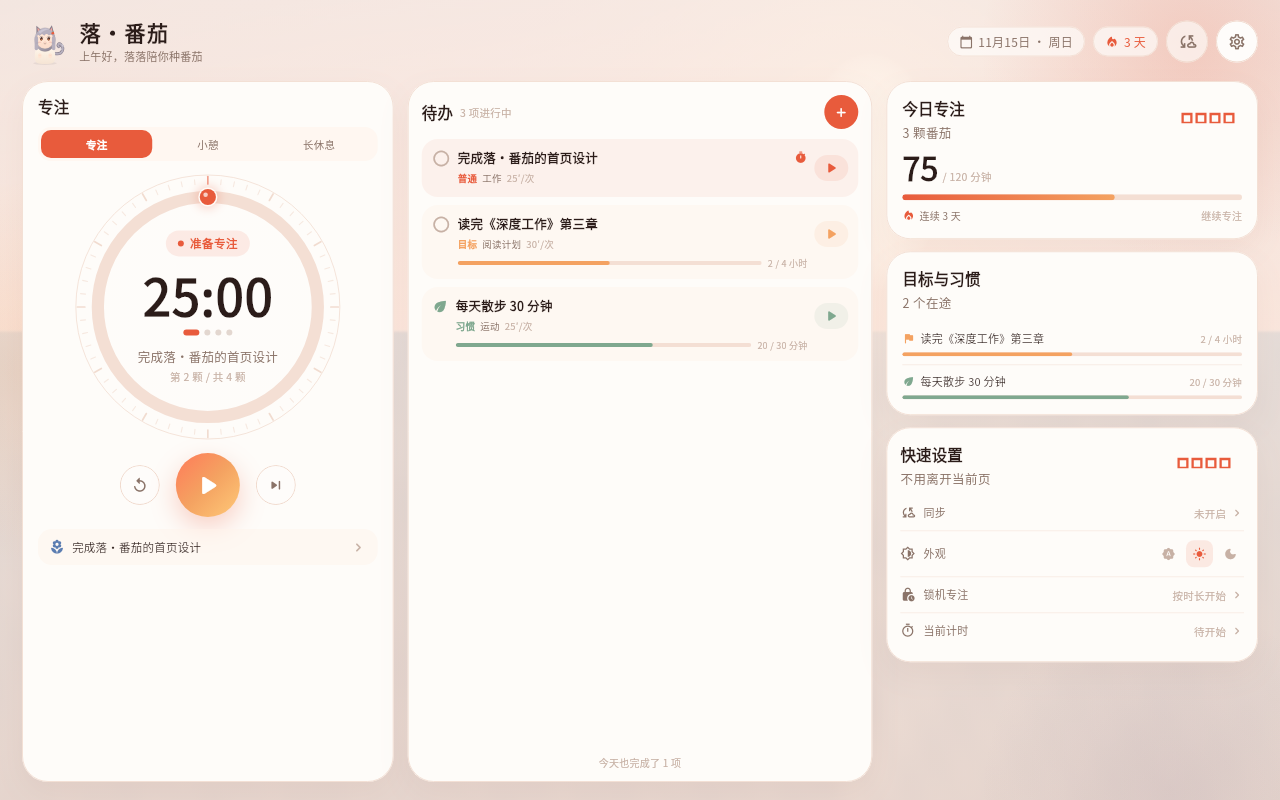
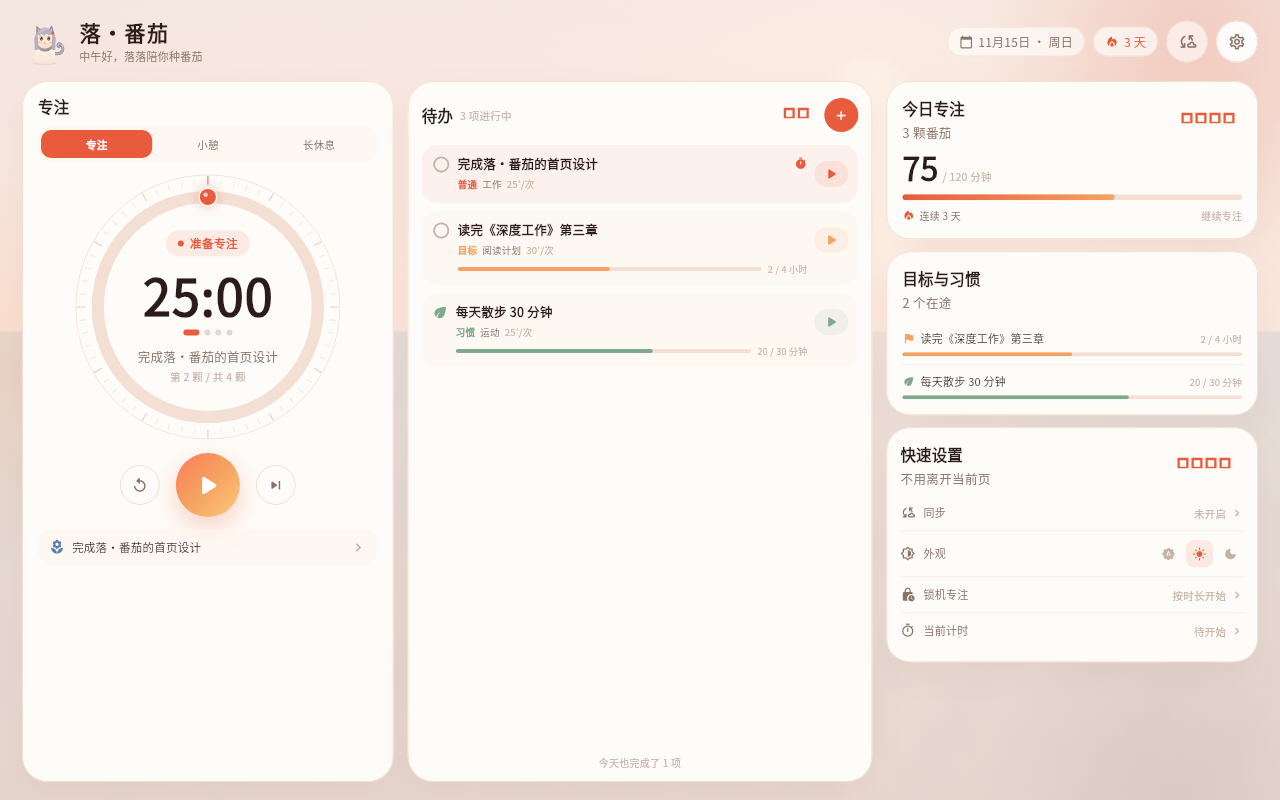
feat: 横屏完整待办入口与专注增强整理 (v1.13.0-beta.1)

diff --git a/lib/features/home/views/home_shell.dart b/lib/features/home/views/home_shell.dart
@@ -162,9 +162,7 @@ class _HomeShellState extends State<HomeShell> with WidgetsBindingObserver {
       _scheduleAutoLock();
       ScaffoldMessenger.of(context)
         ..hideCurrentSnackBar()
-        ..showSnackBar(
-          const SnackBar(content: Text('锁机时间到，但当前已有专注在进行')),
-        );
+        ..showSnackBar(const SnackBar(content: Text('锁机时间到，但当前已有专注在进行')));
       return;
     }
     if (LockSessionPage.active) {
@@ -259,6 +257,14 @@ class _HomeShellState extends State<HomeShell> with WidgetsBindingObserver {
         .push(MaterialPageRoute<void>(builder: (_) => const _StatsScreen()));
   }
 
+  void _openTasks() {
+    Navigator.of(context).push(
+      MaterialPageRoute<void>(
+        builder: (_) => _TasksScreen(onStartFocus: _startFocusForTask),
+      ),
+    );
+  }
+
   @override
   Widget build(BuildContext context) {
     final surfaces = context.surfaces;
@@ -283,6 +289,7 @@ class _HomeShellState extends State<HomeShell> with WidgetsBindingObserver {
               return LandscapeDashboard(
                 onOpenSettings: _openSettings,
                 onOpenStats: _openStats,
+                onOpenTasks: _openTasks,
               );
             }
             return pages[_index.clamp(0, pages.length - 1)];
@@ -378,6 +385,53 @@ class _SettingsScreen extends StatelessWidget {
                 ),
               ),
               const Expanded(child: SettingsPage()),
+            ],
+          ),
+        ),
+      ),
+    );
+  }
+}
+
+class _TasksScreen extends StatelessWidget {
+  const _TasksScreen({required this.onStartFocus});
+
+  final ValueChanged<Task> onStartFocus;
+
+  @override
+  Widget build(BuildContext context) {
+    return Scaffold(
+      backgroundColor: Colors.transparent,
+      body: AppBackground(
+        child: SafeArea(
+          bottom: false,
+          child: Column(
+            children: [
+              Padding(
+                padding: const EdgeInsets.fromLTRB(12, 6, 16, 0),
+                child: Row(
+                  children: [
+                    CircleIconButton(
+                      icon: Icons.arrow_back_rounded,
+                      tooltip: '返回',
+                      size: 40,
+                      onPressed: () => Navigator.of(context).pop(),
+                    ),
+                    const Spacer(),
+                    Text(
+                      '全部待办',
+                      style: TextStyle(
+                        fontSize: 12,
+                        fontWeight: FontWeight.w600,
+                        color: context.surfaces.muted,
+                      ),
+                    ),
+                    const Spacer(),
+                    const SizedBox(width: 40),
+                  ],
+                ),
+              ),
+              Expanded(child: TasksPage(onStartFocus: onStartFocus)),
             ],
           ),
         ),

diff --git a/lib/features/home/views/landscape_dashboard.dart b/lib/features/home/views/landscape_dashboard.dart
@@ -31,10 +31,12 @@ class LandscapeDashboard extends StatelessWidget {
     super.key,
     required this.onOpenSettings,
     required this.onOpenStats,
+    required this.onOpenTasks,
   });
 
   final VoidCallback onOpenSettings;
   final VoidCallback onOpenStats;
+  final VoidCallback onOpenTasks;
 
   @override
   Widget build(BuildContext context) {
@@ -75,6 +77,7 @@ class LandscapeDashboard extends StatelessWidget {
                     child: _TasksCard(
                       tasks: tasks,
                       selectedTaskId: selectedTaskId,
+                      onOpenAll: onOpenTasks,
                       onStart: (task) {
                         if (context.read<PomodoroController>().isRunning) {
                           ScaffoldMessenger.of(context)
@@ -454,11 +457,13 @@ class _TasksCard extends StatelessWidget {
   const _TasksCard({
     required this.tasks,
     required this.selectedTaskId,
+    required this.onOpenAll,
     required this.onStart,
   });
 
   final TaskController tasks;
   final String? selectedTaskId;
+  final VoidCallback onOpenAll;
   final ValueChanged<Task> onStart;
 
   @override
@@ -480,6 +485,14 @@ class _TasksCard extends StatelessWidget {
                 style: TextStyle(fontSize: 10.5, color: surfaces.faint),
               ),
               const Spacer(),
+              TextButton(
+                onPressed: onOpenAll,
+                style: TextButton.styleFrom(
+                  visualDensity: VisualDensity.compact,
+                  padding: const EdgeInsets.symmetric(horizontal: 6),
+                ),
+                child: const Text('全部'),
+              ),
               CircleIconButton(
                 icon: Icons.add_rounded,
                 tooltip: '新建待办',

diff --git a/lib/features/settings/views/settings_page.dart b/lib/features/settings/views/settings_page.dart
@@ -824,11 +824,11 @@ class _SettingsPageState extends State<SettingsPage> {
                             icon: Icons.info_outline_rounded,
                             title: '版本',
                             subtitle: '落·番茄',
-                            value: '1.12.0',
+                            value: '1.13.0',
                             onTap: () => showLicensePage(
                               context: context,
                               applicationName: '落·番茄',
-                              applicationVersion: '1.12.0',
+                              applicationVersion: '1.13.0',
                               applicationLegalese: '把时间种成番茄。',
                             ),
                           ),

diff --git a/test/widget_test.dart b/test/widget_test.dart
@@ -406,4 +406,18 @@ void main() {
     expect(find.text('锁机专注'), findsOneWidget);
     expect(tester.takeException(), isNull);
   });
+
+  testWidgets('横屏可以打开完整待办页', (tester) async {
+    await _pumpApp(
+      tester,
+      logicalSize: const Size(1280, 800),
+      devicePixelRatio: 2,
+    );
+    await tester.tap(find.text('全部'));
+    await tester.pumpAndSettle();
+    expect(find.text('一棵一棵，慢慢长大'), findsOneWidget);
+    await tester.tap(find.byTooltip('返回').first);
+    await tester.pumpAndSettle();
+    expect(tester.takeException(), isNull);
+  });
 }

diff --git a/README.md b/README.md
@@ -4,7 +4,7 @@
 
 <p>
   <img alt="status" src="https://img.shields.io/badge/status-beta-orange" />
-  <img alt="version" src="https://img.shields.io/badge/version-1.12.0--beta-f15b3d" />
+  <img alt="version" src="https://img.shields.io/badge/version-1.13.0--beta-f15b3d" />
   <img alt="flutter" src="https://img.shields.io/badge/Flutter-3.47.9-027DFD?logo=flutter" />
   <a href="https://github.com/starfall-miao/luo-fanqie/actions/workflows/ci.yml"><img alt="CI" src="https://github.com/starfall-miao/luo-fanqie/actions/workflows/ci.yml/badge.svg" /></a>
   <a href="https://github.com/starfall-miao/luo-fanqie/releases"><img alt="beta release" src="https://img.shields.io/badge/release-beta-orange?logo=github" /></a>
@@ -153,7 +153,7 @@ flutter build apk --release
 ### 测试
 
 ```bash
-flutter test          # 57 项单元 / 组件测试（截图测试默认跳过）
+flutter test          # 58 项单元 / 组件测试（截图测试默认跳过）
 dart analyze
 ```
 
@@ -233,4 +233,4 @@ android/ · ios/ · macos/ · windows/ · linux/ · web/
 - 截图字体：[Noto Sans CJK SC](https://github.com/notofonts/noto-cjk)（SIL Open Font License，已附带许可证）
 - [fl_chart](https://github.com/imaNNeo/fl_chart)、[provider](https://pub.dev/packages/provider)、[shared_preferences](https://pub.dev/packages/shared_preferences)、[http](https://pub.dev/packages/http)
 
-<sub>当前版本：1.12.0 · Beta · 先定待办，再定时间。</sub>
+<sub>当前版本：1.13.0 · Beta · 先定待办，再定时间。</sub>

diff --git a/SECURITY.md b/SECURITY.md
@@ -1,6 +1,6 @@
 # 落·番茄安全说明
 
-版本：1.12.0 Beta
+版本：1.13.0 Beta
 适用范围：Android / iOS / macOS / Windows / Linux / Web
 
 落·番茄采用「本地优先、按需联网、按需授权」的设计。应用没有账号体系、没有广告、没有统计 SDK，也不会把数据上传到项目作者或任何第三方服务器。
